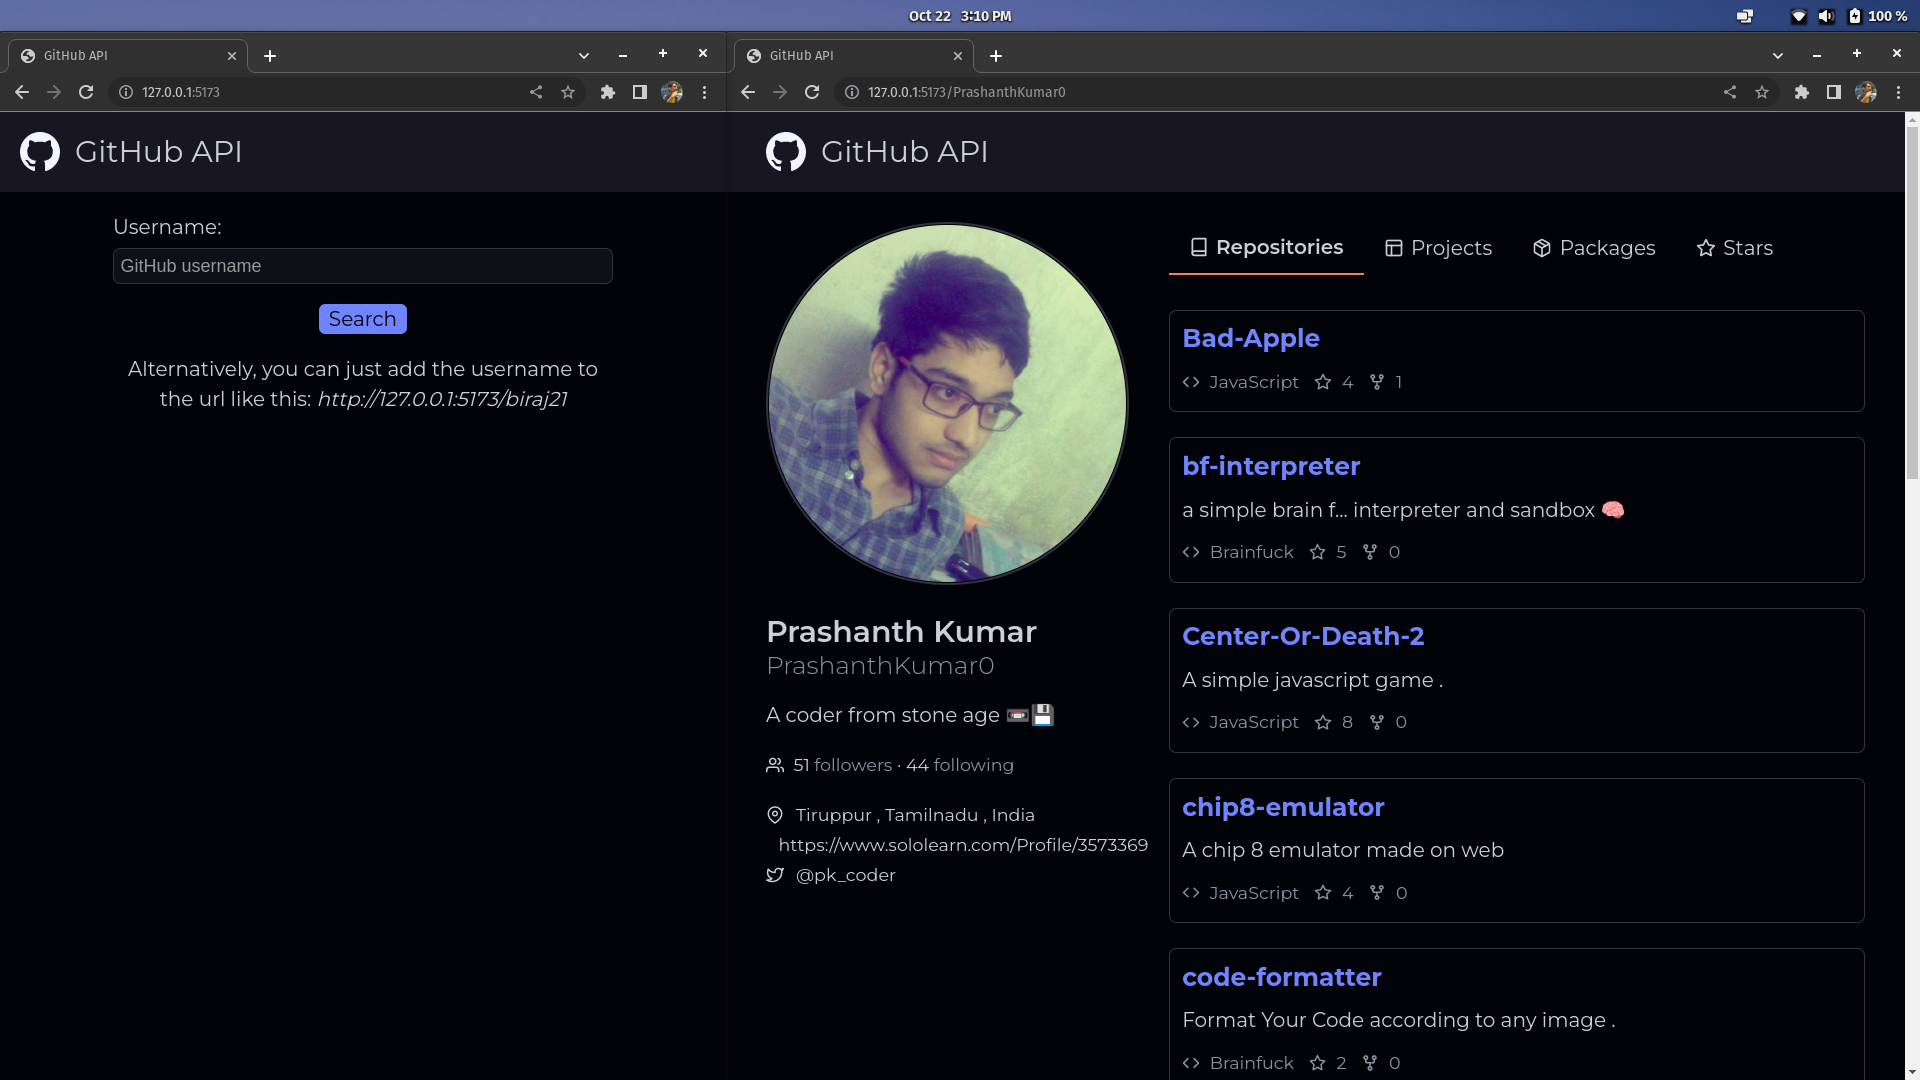
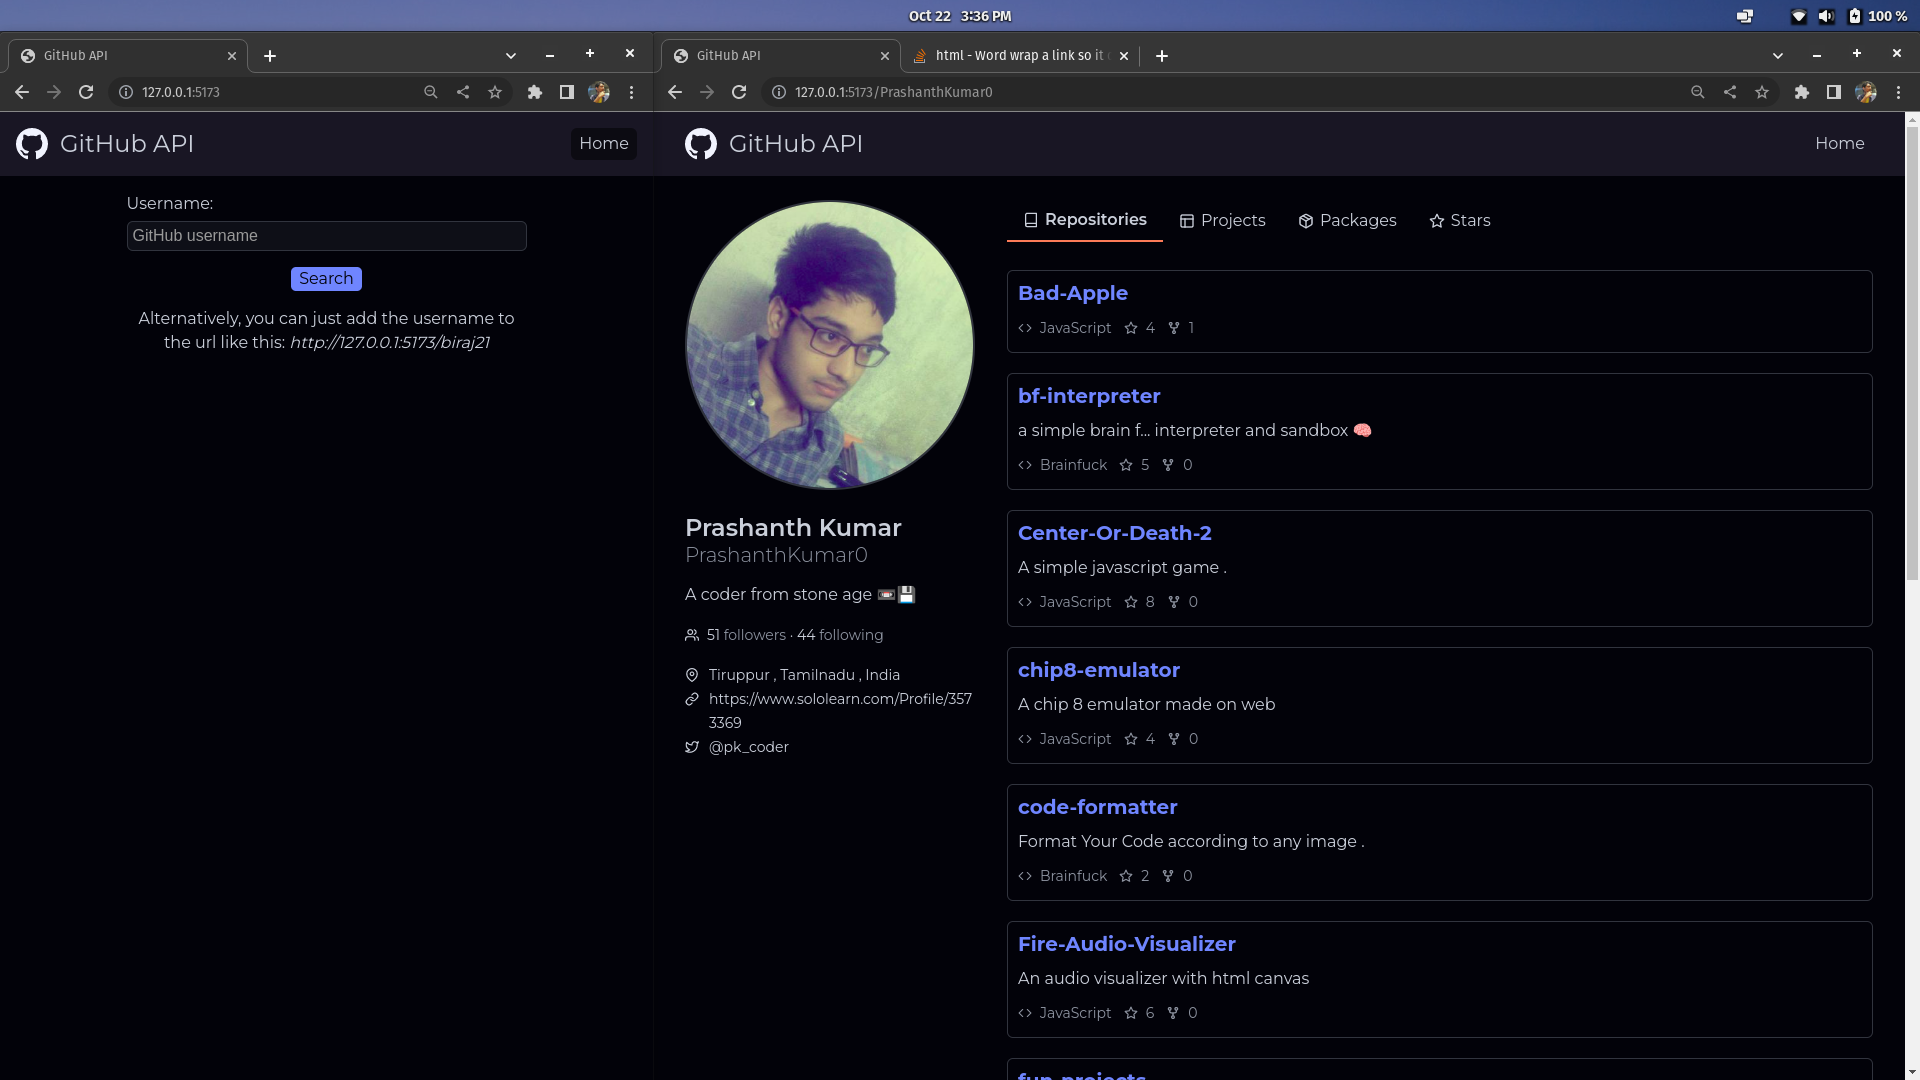
some ui improvements

diff --git a/src/components/UserInfo.scss b/src/components/UserInfo.scss
@@ -51,7 +51,13 @@
 
     span {
       display: flex;
-      align-items: center;
+      align-items: flex-start;
+
+      a {
+        width: calc(100% - 14px - 10px);
+        white-space: pre-wrap;
+        word-wrap: break-word;
+      }
     }
   }
 }

diff --git a/src/pages/Profile.jsx b/src/pages/Profile.jsx
@@ -96,5 +96,5 @@ export default function UserPage() {
     content = <Loader />;
   }
 
-  return <div className="page user-page">{content}</div>;
+  return <div className="page profile">{content}</div>;
 }

diff --git a/src/pages/Home.scss b/src/pages/Home.scss
@@ -10,7 +10,7 @@
 
     input {
       width: 100%;
-      font-size: 0.9rem;
+      font-size: 1rem;
     }
 
     .btn {

diff --git a/src/pages/Profile.scss b/src/pages/Profile.scss
@@ -1,4 +1,4 @@
-.user-page {
+.profile {
   padding-top: 24px !important;
   display: flex;
 
